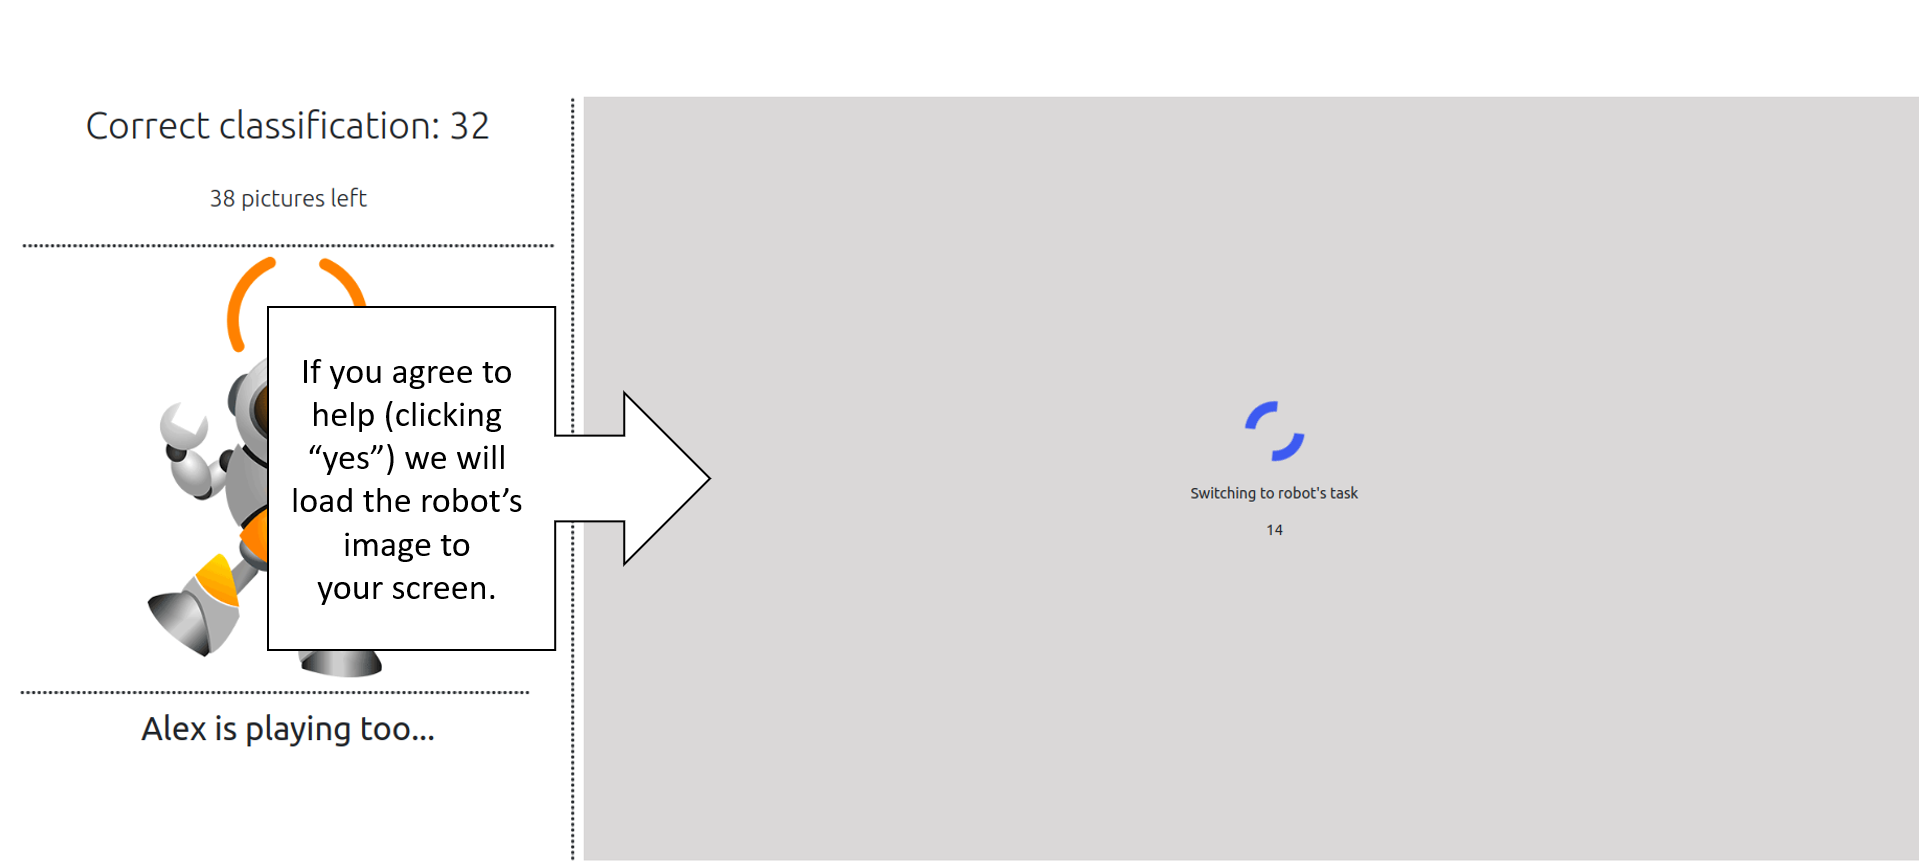
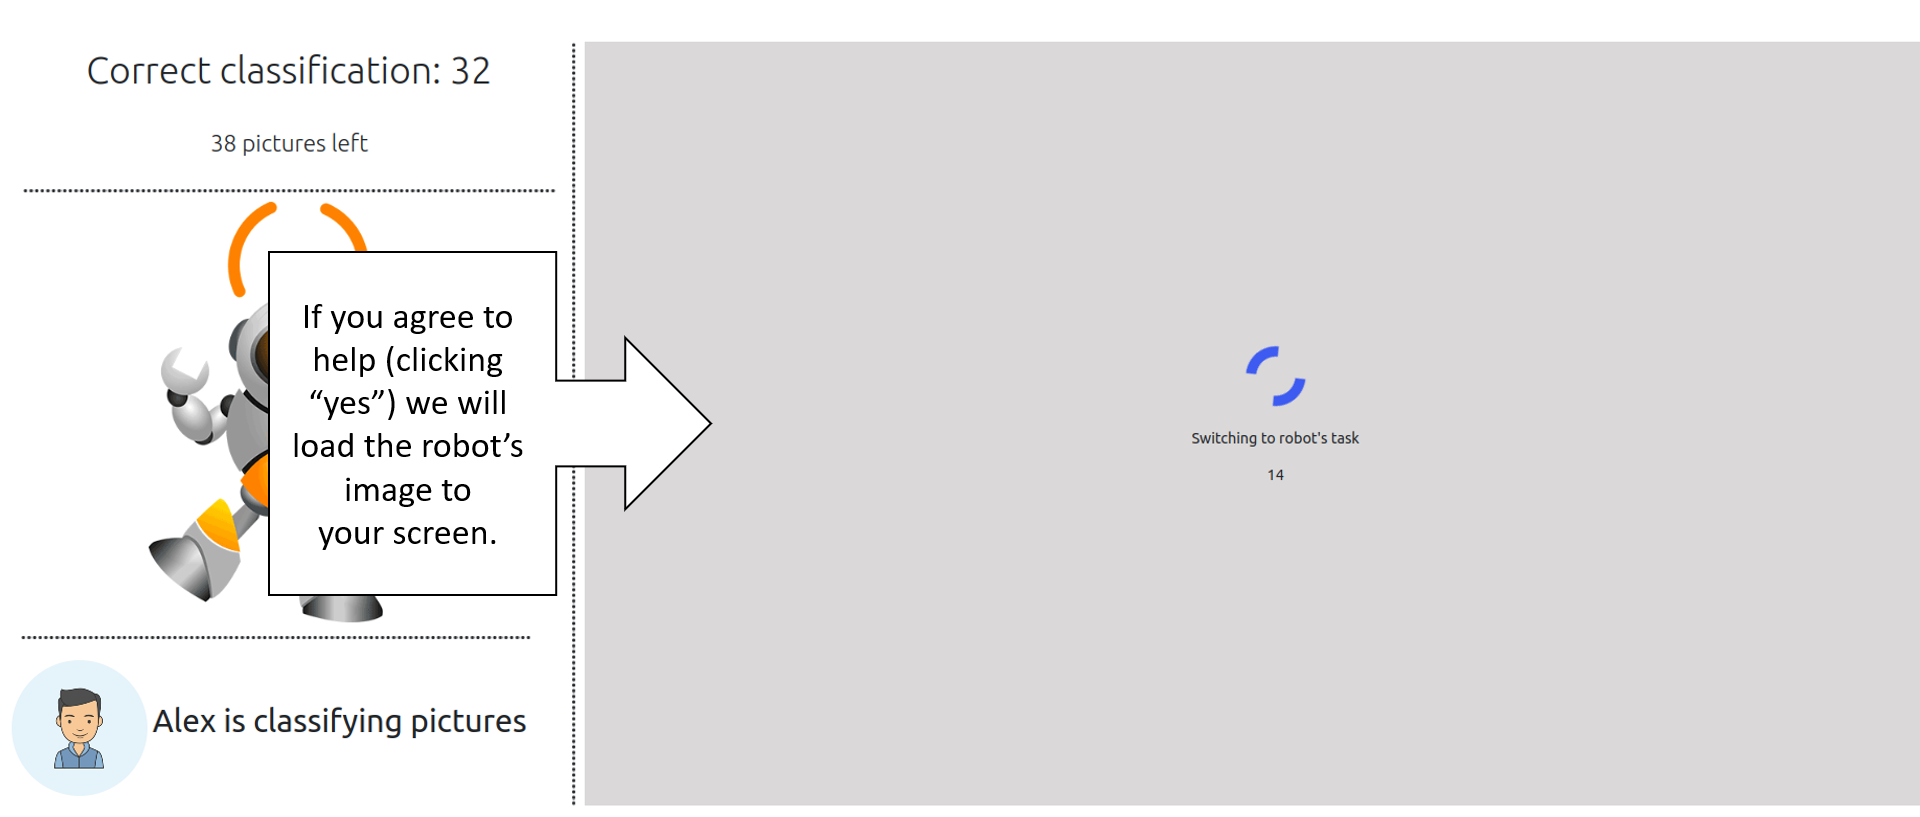
design and no hep from alex in the game page

diff --git a/src/game/gamePage.js b/src/game/gamePage.js
@@ -221,16 +221,16 @@ function GamePage() {
      * Changes in left screen when user clicked "no" on help request.
      */
      const handleClose = () => {
-         // if (firstHelp) { // it was the first help request
-         //     otherUserHelps();
-         //     setFirstHelp(false);
-         //     return;
-         // } else { //it was the second help
-         //     if (helpedOnFirst) { // helped on the first help but not the second
-         //         otherUserHelps();
-         //         return;
-         //     }
-         // }
+         if (firstHelp) { // it was the first help request
+             //otherUserHelps();
+             setFirstHelp(false);
+             return;
+         } else { //it was the second help
+             if (helpedOnFirst) { // helped on the first help but not the second
+                 //otherUserHelps();
+                 return;
+             }
+         }
         setHelpRequest(false);
         setRobot("       \n       ");
         setImgSrc("radio-bot-animated.gif");
@@ -274,7 +274,7 @@ function GamePage() {
                                         <div className={AlexHelp ? null : "participants-view-div"}></div>
                                         <div className={"Alex-part"}>
                                             <img src={"man.gif"} alt={"Alex-pic"} className={"Alex-pic"}/>
-                                            <div className={"robot-text"}>{humanRunning}</div>
+                                            <div className={"human-text"}>{humanRunning}</div>
                                         </div>
                                     </div>
                                 </div>

diff --git a/src/game/gamePage.css b/src/game/gamePage.css
@@ -178,12 +178,18 @@
 
 .robot-text {
     font-size: 35px;
+    /*float: right;*/
+    margin-top: 40px;
+}
+
+.human-text {
+    font-size: 35px;
     float: right;
-    align-content: center;
+    margin-top: 40px;
 }
 
 .robot-pic {
-    width: 300px;
+    width: 250px;
     height: auto;
     padding-bottom: 15px;
     /*padding-bottom: 10px;*/
@@ -193,7 +199,7 @@
 .Alex-pic {
     width: 150px;
     height: auto;
-    float: left;
+    display: inline-block;
     border-radius: 50%;
 }
 
